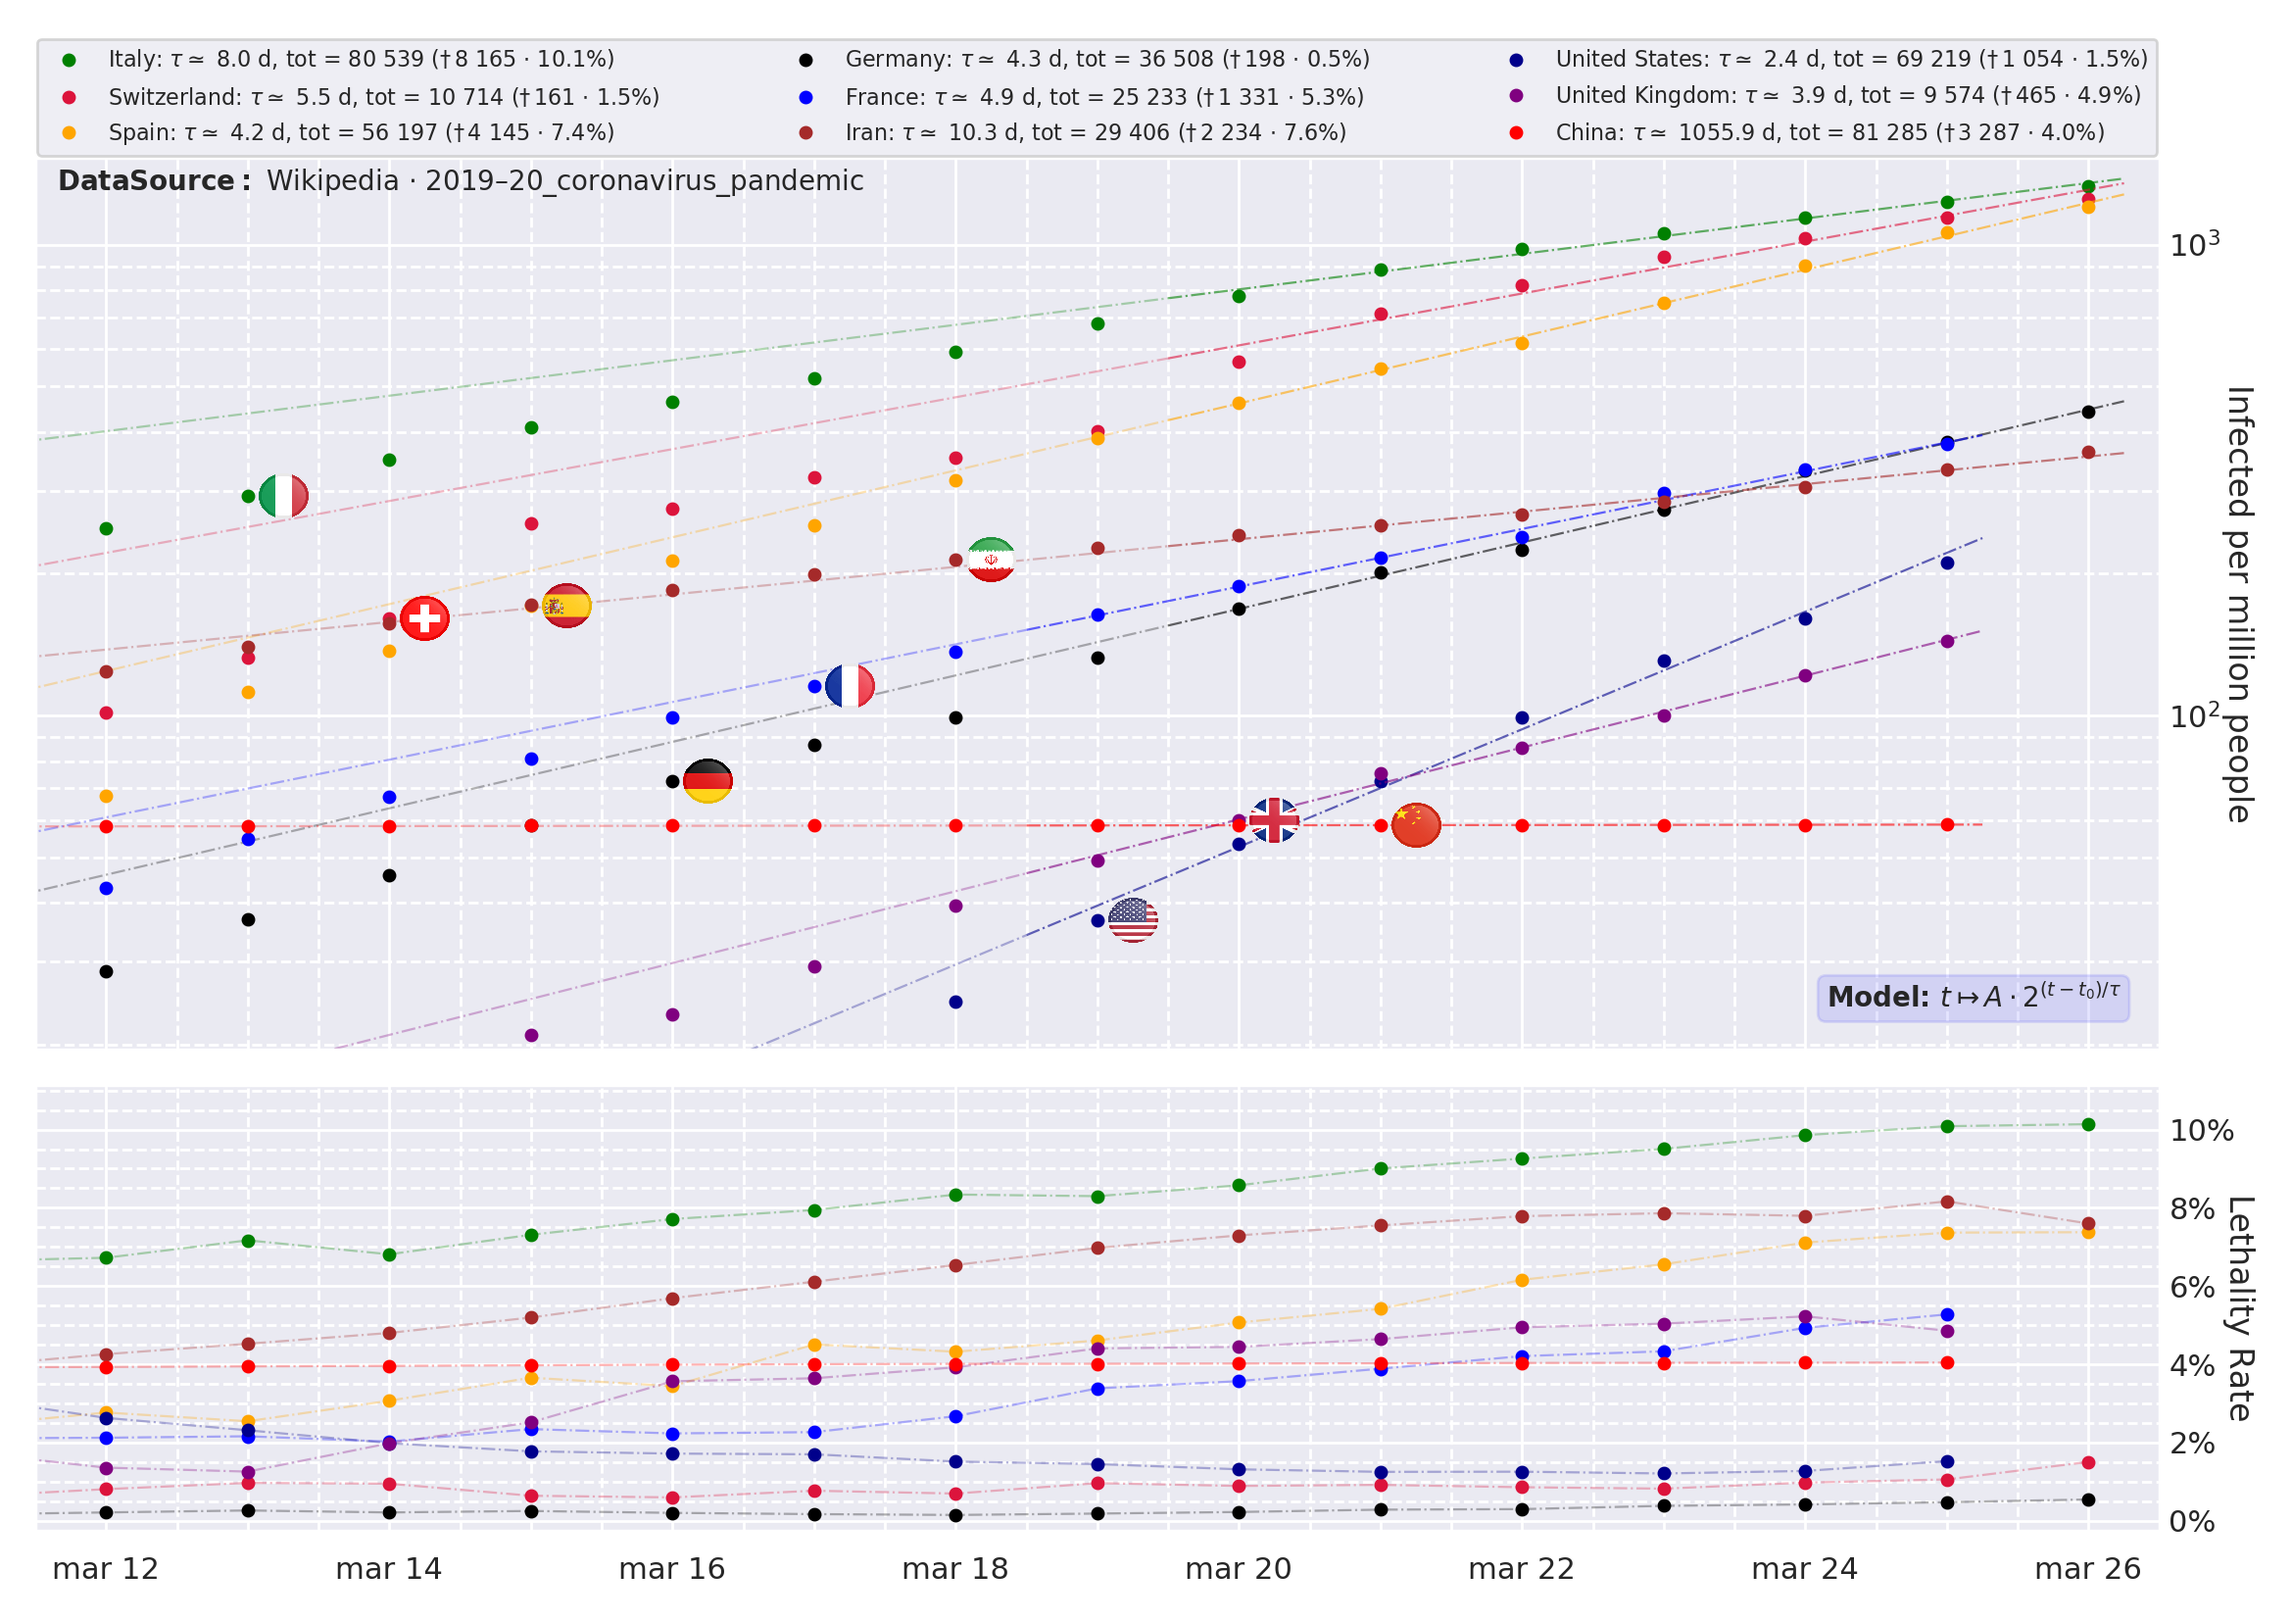
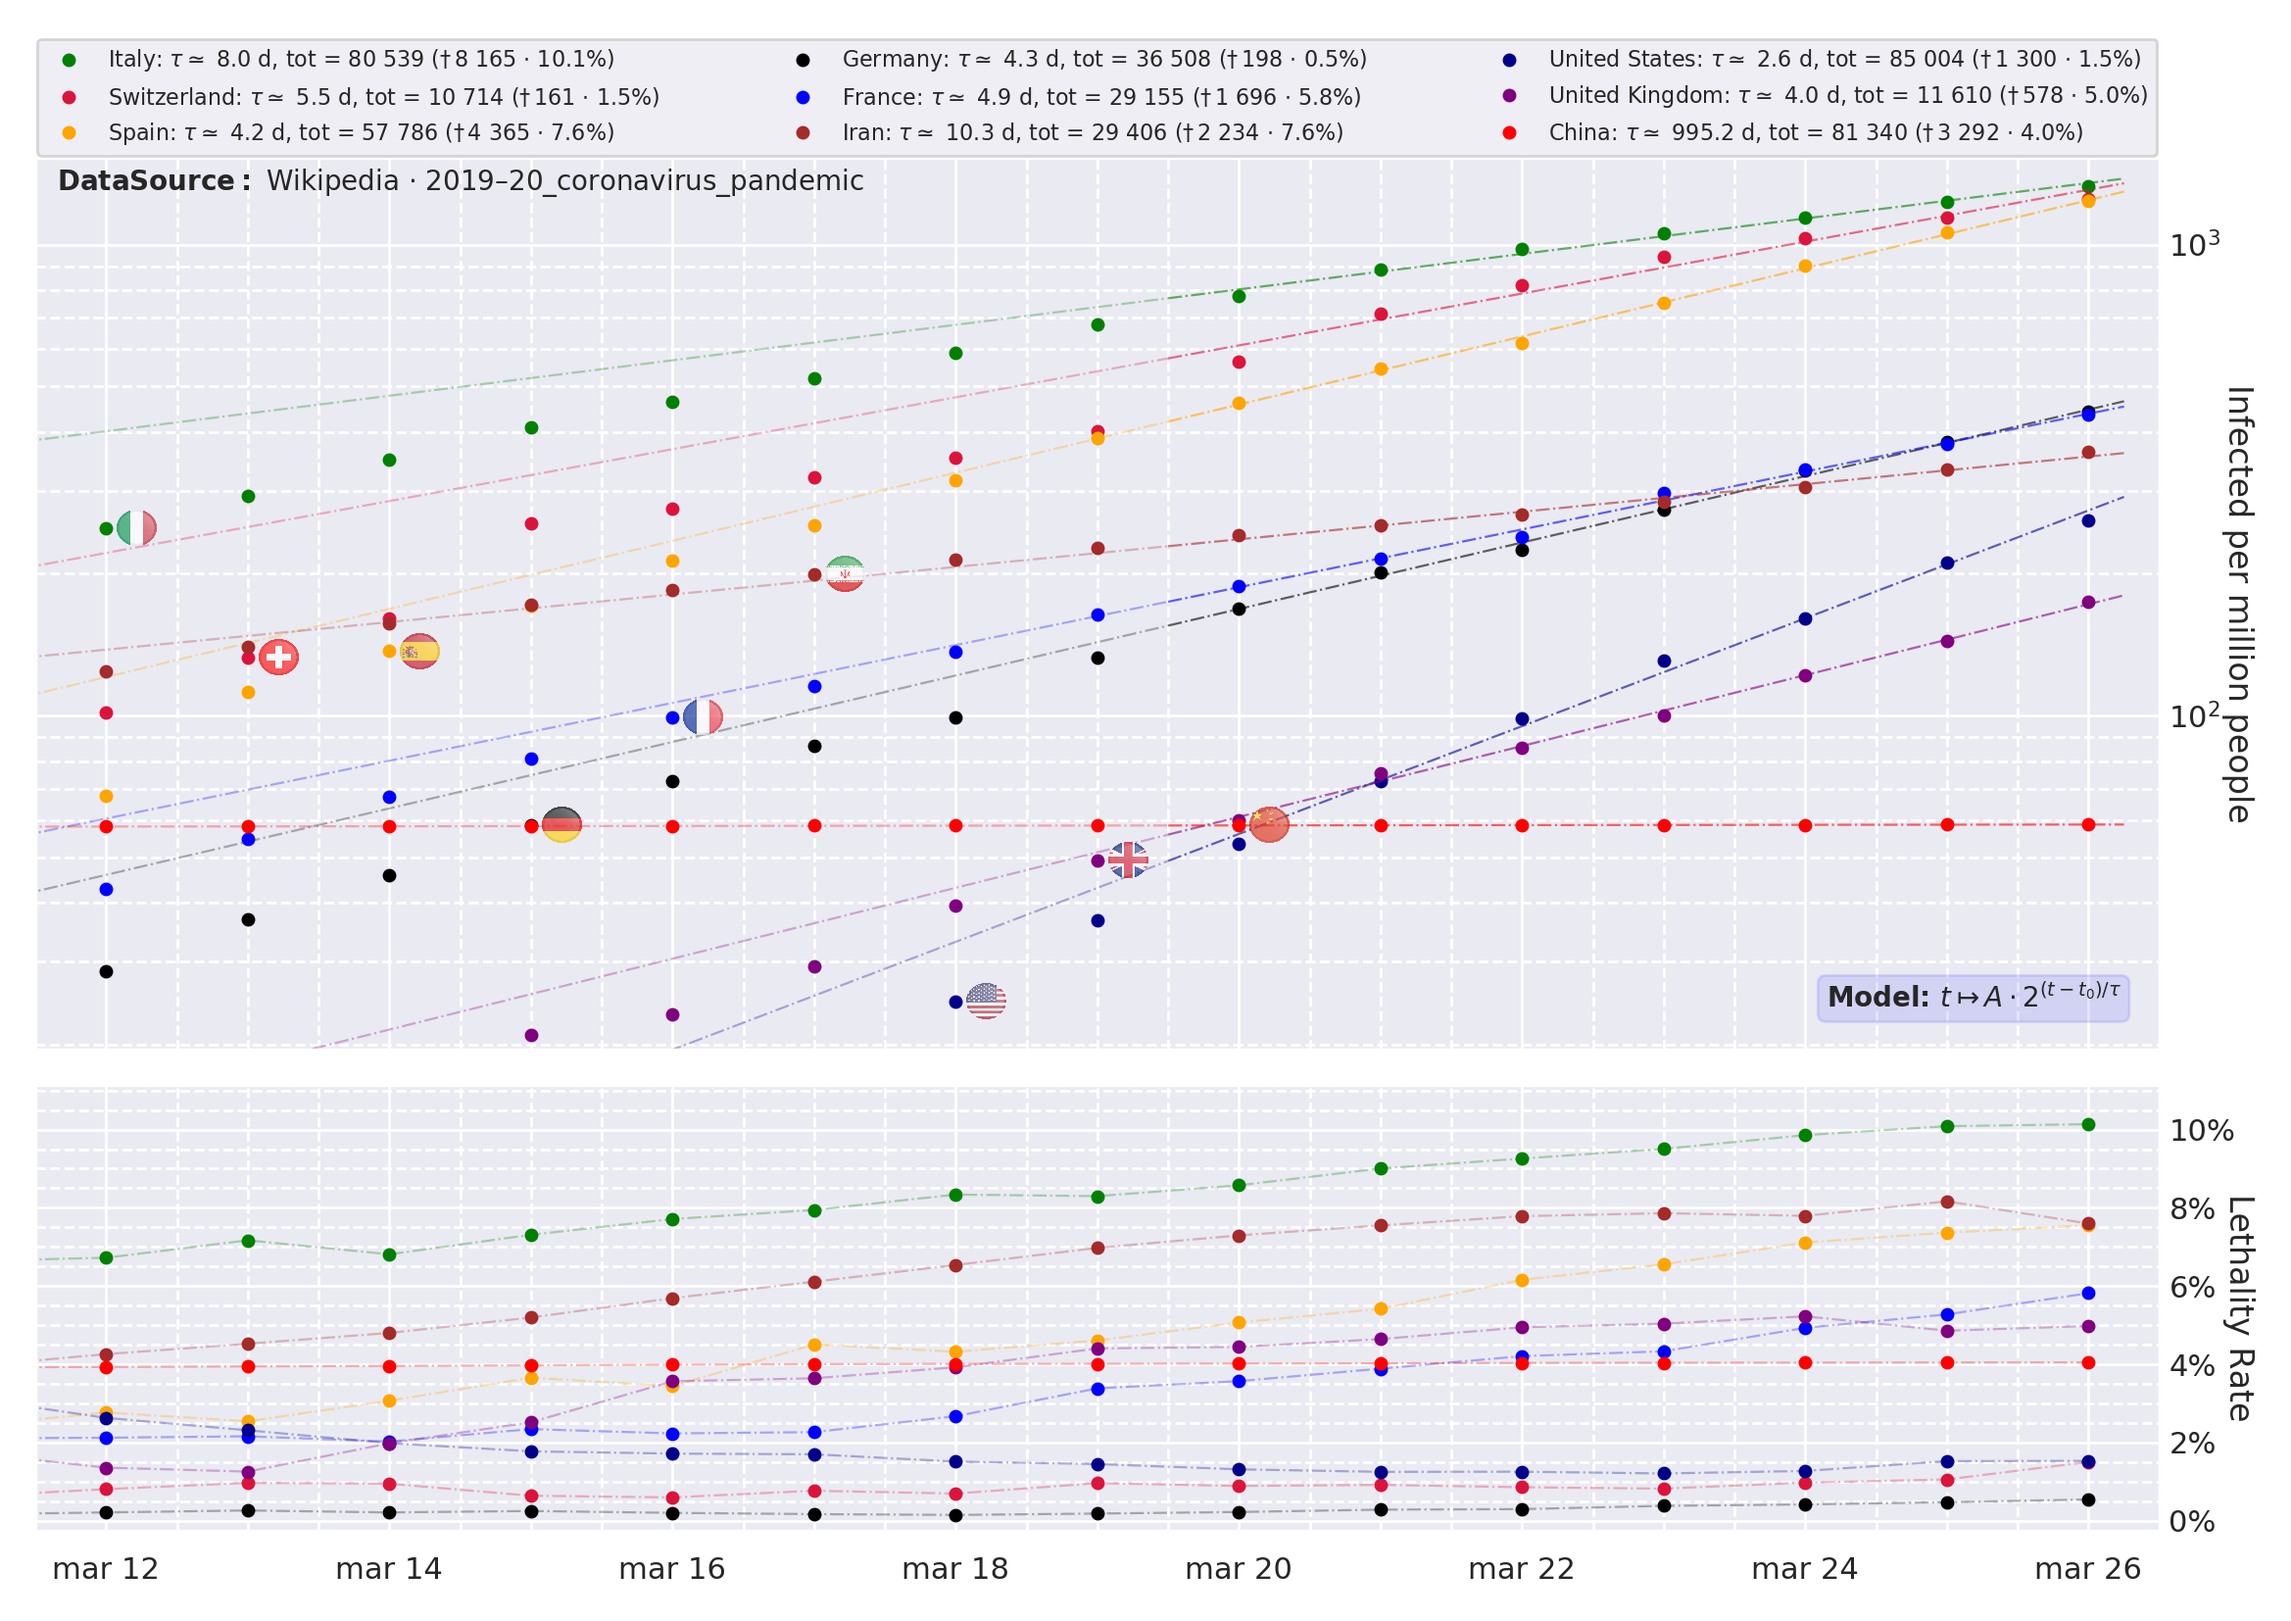
minor commit

diff --git a/Coronavirus/coronavirus.py b/Coronavirus/coronavirus.py
@@ -178,7 +178,7 @@ if flags is True:
         t = mdates.date2num(df.index)
 
         if init_time == 0:
-            init_time = t[-14]
+            init_time = t[-15]
 
         flagIdx = np.where(t == init_time)[0][0]
 
@@ -197,9 +197,9 @@ if flags is True:
         im = image.imread("flags/" + country_ds["flagname"].loc[name])
         ax1.imshow(im, aspect="auto", zorder=10, transform=ax1.transAxes,
                    extent=(flagCoord[0] + 0.005,
-                           flagCoord[0] + 0.005 + 0.05*disp_ratio,
-                           flagCoord[1] - 0.025,
-                           flagCoord[1] + 0.025))
+                           flagCoord[0] + 0.005 + 0.04*disp_ratio,
+                           flagCoord[1] - 0.02,
+                           flagCoord[1] + 0.02))
 
 plt.tight_layout()
 plt.savefig("coronavirus.png", dpi=200)
